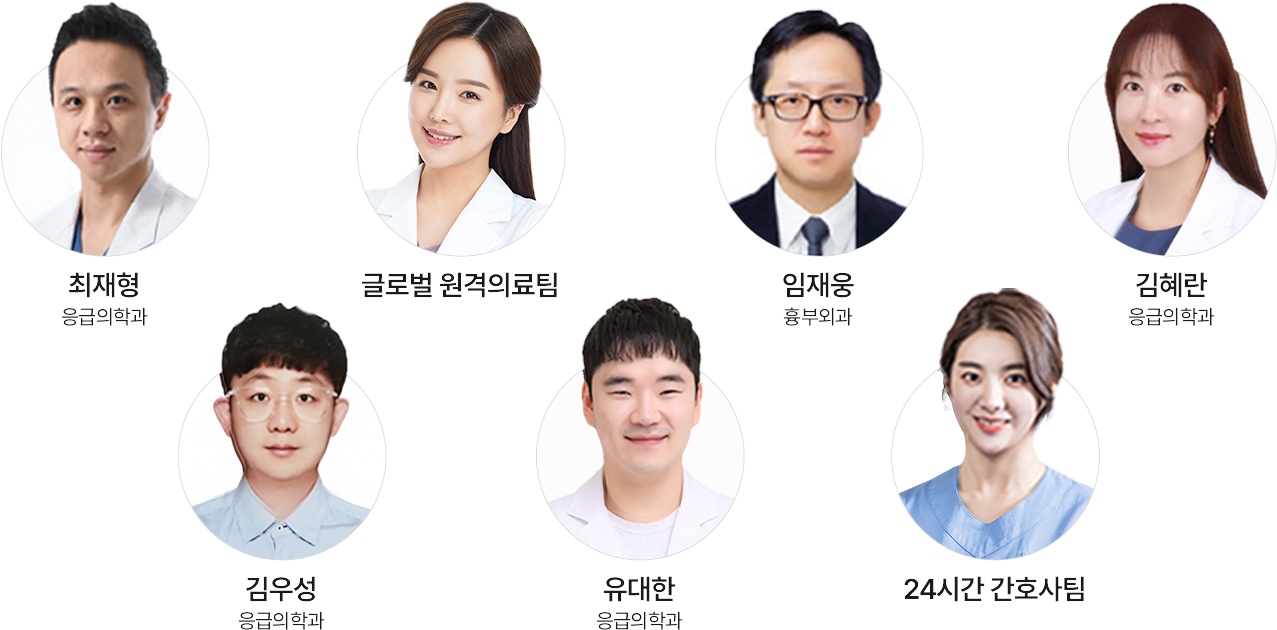
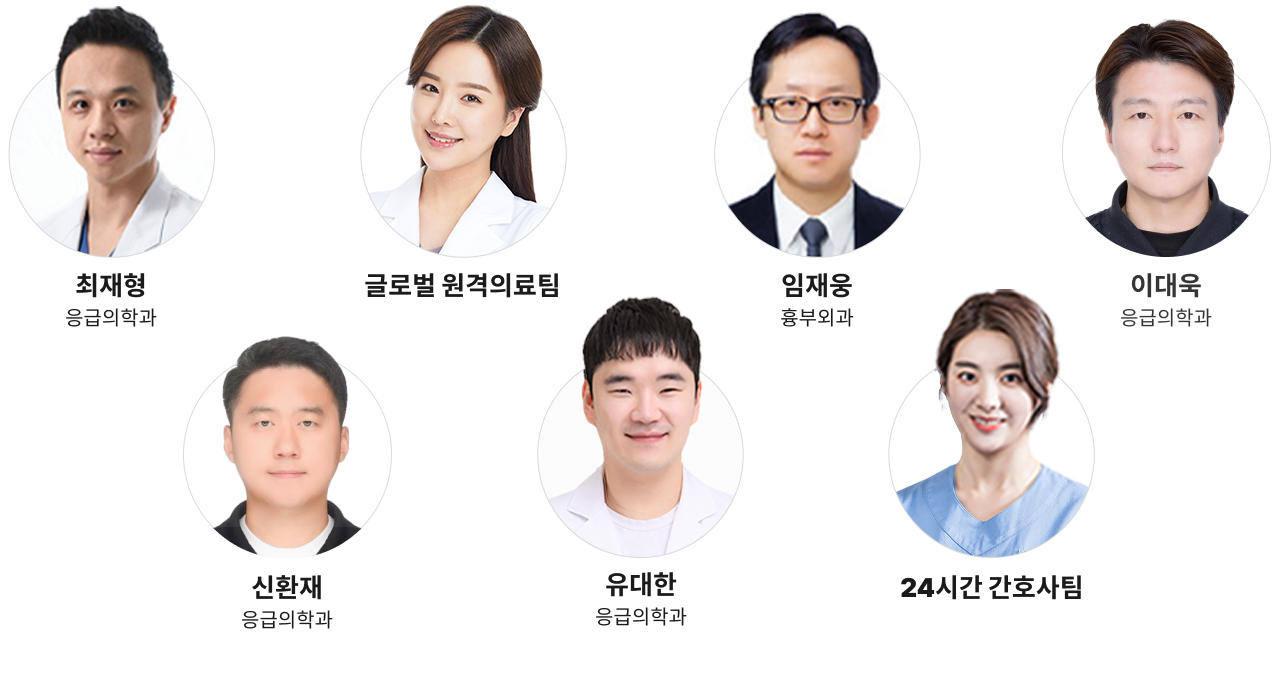
hotfix: 의사 이미지 변경

diff --git a/html/main/index.php b/html/main/index.php
@@ -144,8 +144,8 @@ $_SESSION["orderno"] = "";
 					<h3>&middot; 의료진 소개 &middot;</h3>
 					<p>가정의학과, 응급의학과, 내과, 소아과, 피부과 등 전문의가<br><strong class="ft-red">원격진료, 전문의 상담, 응급 의료 상담</strong>을 제공해 드립니다</p>
 				</div>				
-				<img src="../images/img_randing_02.png" class="is-pc" alt="최재형-응급의학과, 이현지-가정의학과, 오혜미-가정의학과, 김혜란-응급의학과, 김우성-응급의학과, 유대한-응급의학과, 24시간 간호사팀">
-				<img src="../images/img_randing_02_mob.png" class="is-m" alt="최재형-응급의학과, 이현지-가정의학과, 오혜미-가정의학과, 김혜란-응급의학과, 김우성-응급의학과, 유대한-응급의학과, 24시간 간호사팀">
+				<img src="../images/img_randing_02.png?v=1" class="is-pc" alt="최재형-응급의학과, 이현지-가정의학과, 오혜미-가정의학과, 김혜란-응급의학과, 김우성-응급의학과, 유대한-응급의학과, 24시간 간호사팀">
+				<img src="../images/img_randing_02_mob.png?v=1" class="is-m" alt="최재형-응급의학과, 이현지-가정의학과, 오혜미-가정의학과, 김혜란-응급의학과, 김우성-응급의학과, 유대한-응급의학과, 24시간 간호사팀">
 			</div>
 			<div class="main-box-04">
 				<div class="title-box">
